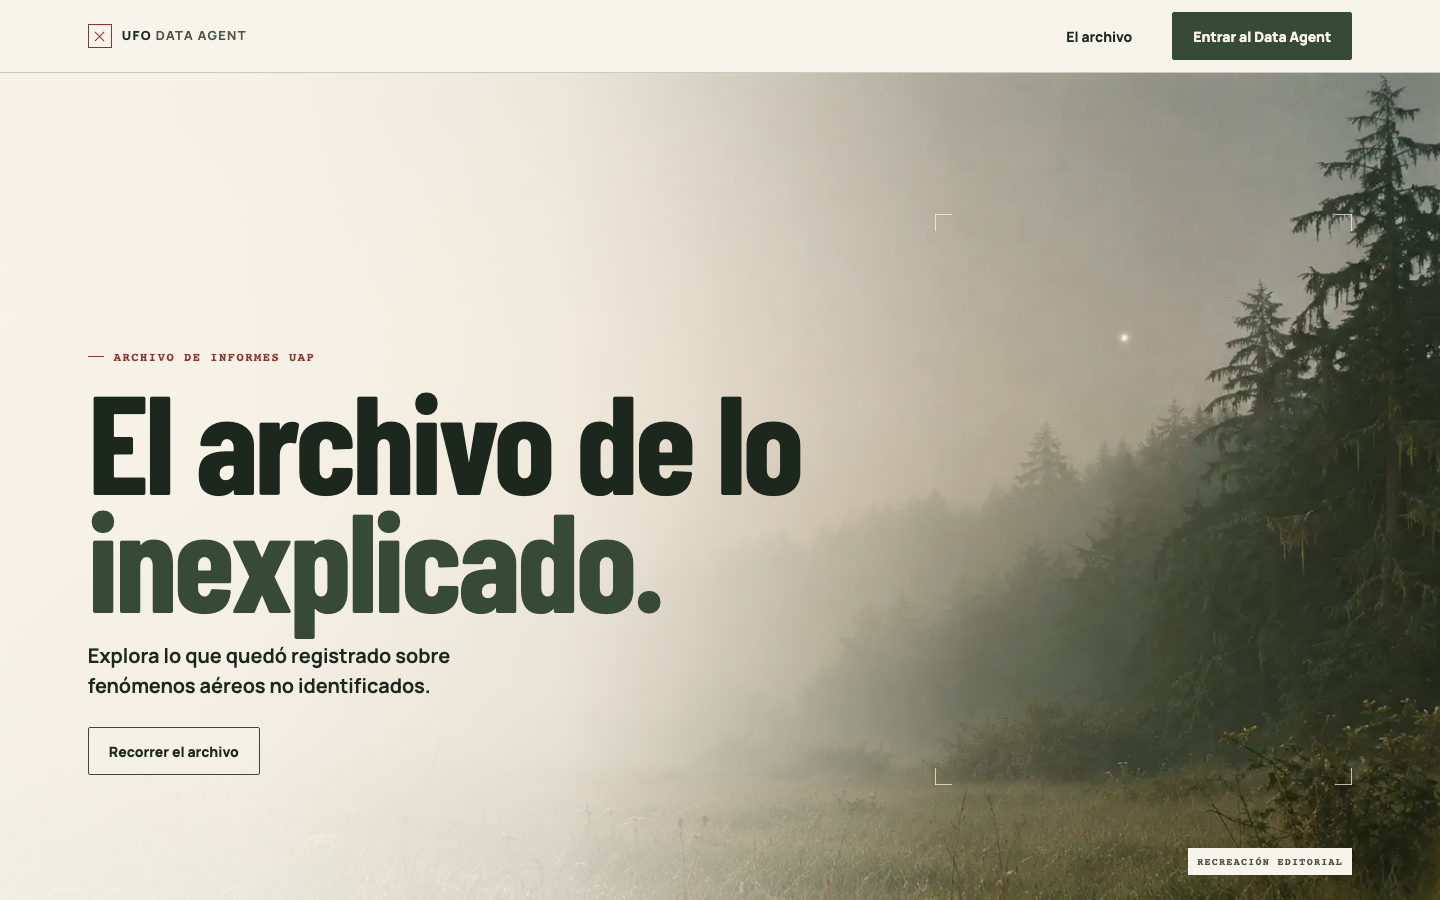
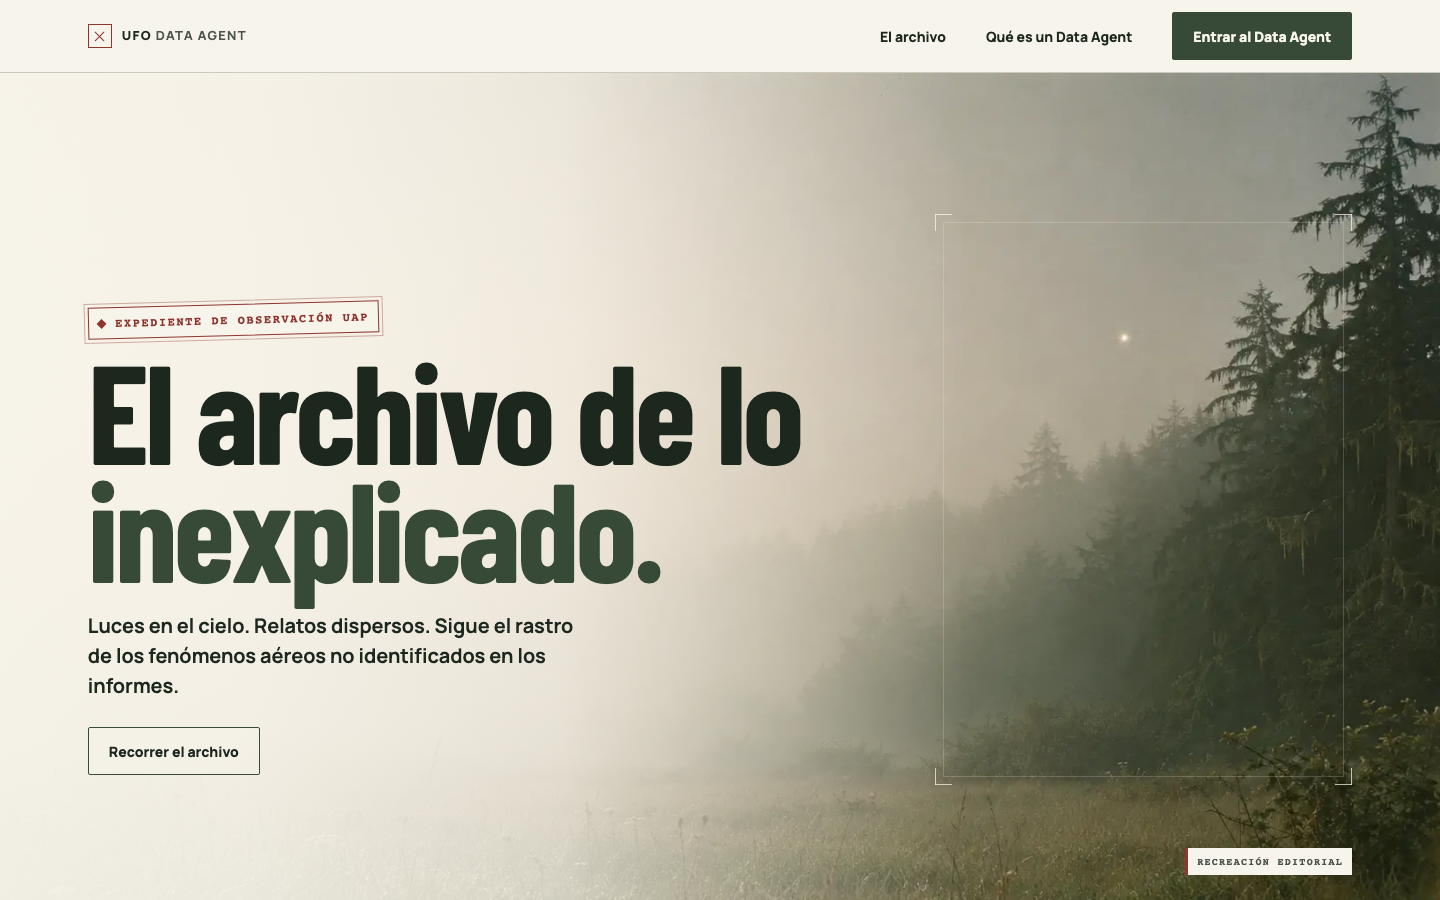
docs: show the investigation workflow and enterprise references

Changed region(s): [[0.0625, 0.3111, 0.5625, 0.7778], [0.6875, 0.0311, 0.7812, 0.0622], [0.625, 0.0311, 0.6562, 0.0622]]

diff --git a/agents/ufo-data-agent/prototype/README.md b/agents/ufo-data-agent/prototype/README.md
@@ -1,6 +1,6 @@
 # Prototipo de UFO Data Agent
 
-Portada del [UFO Data Agent](https://github.com/marcor0311/UFO-Data-Agent), un caso de investigación sobre la exploración conversacional de informes de fenómenos aéreos no identificados. La experiencia abre con una ambientación de archivo en tema claro, ofrece un recorrido por los informes, su distribución y sus fuentes, y termina con el acceso al agente.
+Portada del [UFO Data Agent](https://github.com/marcor0311/UFO-Data-Agent), un caso de investigación sobre la exploración conversacional de informes de fenómenos aéreos no identificados. La experiencia presenta el archivo en tema claro, recorre los testimonios y sus fuentes, explica cómo se analiza una pregunta y termina con el acceso al agente.
 
 Las fotografías del recorrido son recreaciones editoriales. El agente consulta agregados y evidencia de la capa Gold del proyecto.
 
@@ -11,3 +11,15 @@ Las fotografías del recorrido son recreaciones editoriales. El agente consulta 
 ## Recorrido por los informes
 
 ![Capítulo Tiempo y lugar con un mapa topográfico ilustrativo y controles para cambiar de capítulo](02-recorrido-tiempo-y-lugar.png)
+
+## Protocolo de investigación
+
+Un Data Agent interpreta preguntas en lenguaje natural, usa herramientas para consultar fuentes autorizadas y presenta resultados con contexto. El ejemplo de la portada muestra cómo UFO Data Agent interpreta un recuento por forma, ejecuta una consulta validada sobre Gold y devuelve un resultado con su evidencia.
+
+![Expediente visual con la definición de Data Agent y los tres pasos de una consulta sobre las formas reportadas](03-protocolo-de-investigacion.png)
+
+## Referencias empresariales
+
+La sección compara experiencias de análisis conversacional y servicios que aportan contexto a los agentes. [Data agent en ChatGPT Work](https://openai.com/index/put-data-to-work/) · [Claude Data](https://support.claude.com/en/articles/17454700-get-started-with-claude-data) · [Genie Agents](https://docs.databricks.com/aws/en/genie-agents/) · [Tableau Knowledge](https://help.tableau.com/current/online/en-gb/tableau_knowledge_about.htm).
+
+![Cuatro fichas de tecnologías empresariales con sus fuentes oficiales](04-plataformas-empresariales.png)
